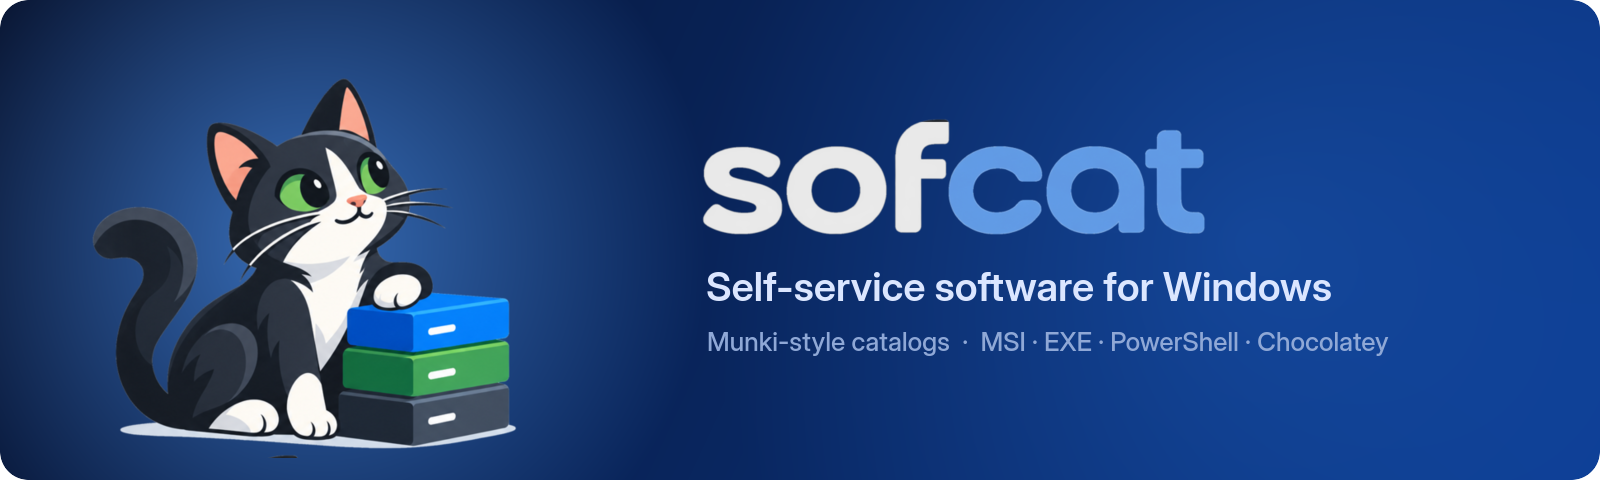
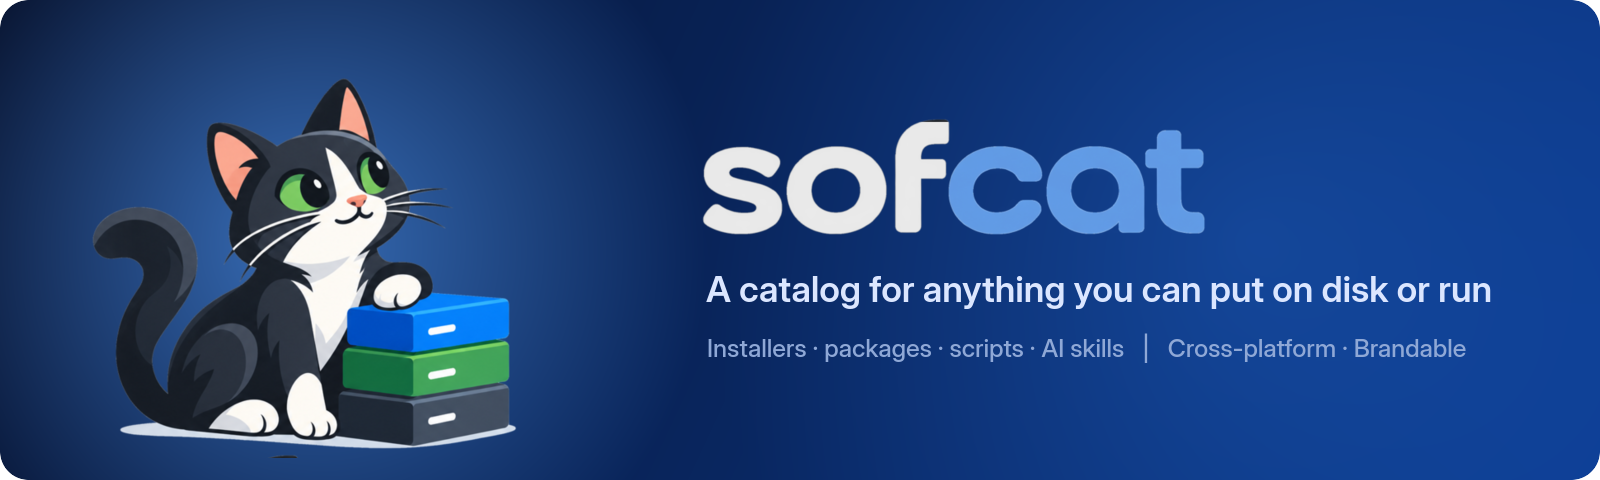
README: present SofCat as a cross-platform catalog, pre-beta
SofCat's goal is a brandable, cross-platform catalog for anything that can
be put on disk or run (installers, packages, scripts, AI skills), not
Windows self-service software. The banner, intro and MSI description now
say so. A pre-beta warning notes that config, catalog format and protocol
can still change and that only the Windows agent ships, and a "Where it
stands" table separates what works today from what is planned.

Claude-Session: https://claude.ai/code/session_01XSD36JW7hh5aUBFXPr1Bba

Changed region(s): [[0.4375, 0.5625, 0.9375, 0.6562], [0.4375, 0.6875, 0.9375, 0.75]]

diff --git a/README.md b/README.md
@@ -1,5 +1,5 @@
 <p align="center">
-  <img alt="SofCat: self-service software for Windows" src="assets/readme/banner.png" width="100%">
+  <img alt="SofCat: a catalog for anything you can put on disk or run" src="assets/readme/banner.png" width="100%">
 </p>
 
 <p align="center">
@@ -11,42 +11,58 @@
   <a href="LICENSE"><img alt="License: Apache-2.0" src="https://img.shields.io/github/license/hurricanehrndz/sofcat"></a>
 </p>
 
-SofCat installs and updates software on Windows machines from a catalog you
-host on any web server, the way [Munki](https://github.com/munki/munki) does on
-macOS. A SYSTEM service keeps every required item installed. A self-service
-app lets people install the optional ones without admin rights.
+> [!WARNING]
+> SofCat is pre-beta. The config keys, catalog format and service protocol can
+> change between releases without a migration path. Only the Windows agent
+> ships today.
+
+SofCat is a catalog for anything you can put on disk or run: installers,
+packages, scripts, AI skills. You publish manifests and catalogs on any web
+server. An agent on each machine keeps the required items in place, and a
+self-service app, branded as your own, lets people add the optional ones
+without admin rights.
+
+It started as a fork of [Gorilla](https://github.com/1dustindavis/gorilla) and
+keeps the [Munki](https://github.com/munki/munki) model: a manifest says what a
+machine gets, catalogs say what exists, and both are plain YAML.
 
 <picture>
   <source media="(prefers-color-scheme: dark)" srcset="assets/readme/storefront-dark.png">
   <img alt="The SofCat self-service app listing available software with Install, Cancel and Remove actions" src="assets/readme/storefront-light.png">
 </picture>
 
-## What you get
+## Where it stands
 
-- **Munki-style repos.** Manifests say what a machine gets, catalogs say what
-  exists, and both are plain YAML served over HTTP(S).
-- **Four package types.** `.msi`, `.exe`, `.ps1`, and `.nupkg` through
-  [Chocolatey](https://github.com/chocolatey/choco).
+| | Today | Planned |
+| --- | --- | --- |
+| Agent | Windows service | macOS and Linux |
+| Item types | `.msi`, `.exe`, `.ps1`, `.nupkg` via [Chocolatey](https://github.com/chocolatey/choco) | Files and scripts on any platform, AI skills, native packages |
+| Self-service app | Windows | macOS and Linux |
+| `makecatalogs` | Linux, macOS, Windows | |
+
+What already works:
+
 - **Self-service for standard users.** Browse, install, remove and cancel,
-  with per-item progress and an Activity log. The app talks to the service
-  over a local named pipe, so nobody needs to elevate.
-- **Your branding.** Set a title, logo, accent colour and help link with
-  policy registry values or `config.yaml`. See [ui/README.md](ui/README.md#branding).
+  with per-item progress and an Activity log. The app talks to the agent over
+  a local named pipe, so nobody needs to elevate.
+- **Your branding.** Set the app's title, logo, accent colour and help link
+  with policy registry values or `config.yaml`. See
+  [ui/README.md](ui/README.md#branding).
 - **Inventory for osquery.** Every run writes a Munki-compatible
   `inventory.json`. See [docs/osquery-inventory.md](docs/osquery-inventory.md).
-- **`makecatalogs` anywhere.** Build catalogs on Linux, macOS or Windows, so
-  your package repo's CI never needs a Windows runner.
+- **`makecatalogs` anywhere.** Build catalogs on any OS, so your repo's CI
+  never needs a Windows runner.
 
 ## How it works
 
 ```mermaid
 flowchart LR
-  repo["Web server<br/>manifests, catalogs, packages"] -->|HTTPS| svc["sofcat.exe<br/>SYSTEM service"]
-  svc -->|installs| pc["Windows machine"]
-  ui["sofcat-ui.exe<br/>self-service app"] <-->|named pipe| svc
+  repo["Web server<br/>manifests, catalogs, items"] -->|HTTPS| agent["sofcat agent<br/>runs as SYSTEM"]
+  agent -->|installs, runs, removes| pc["Each machine"]
+  ui["Self-service app<br/>your branding"] <-->|local pipe| agent
 ```
 
-## Quick start
+## Quick start on Windows
 
 1. Download `sofcat-<version>-x86_64.msi` from the
    [releases page](https://github.com/hurricanehrndz/sofcat/releases) and install it:
@@ -140,5 +156,5 @@ To try the whole thing on a fresh Windows VM, start with
 ## Credits
 
 SofCat is a fork of [Gorilla](https://github.com/1dustindavis/gorilla) by
-Dustin Davis and borrows its ideas from [Munki](https://github.com/munki/munki).
+Dustin Davis and borrows its model from [Munki](https://github.com/munki/munki).
 Licensed under [Apache-2.0](LICENSE).
